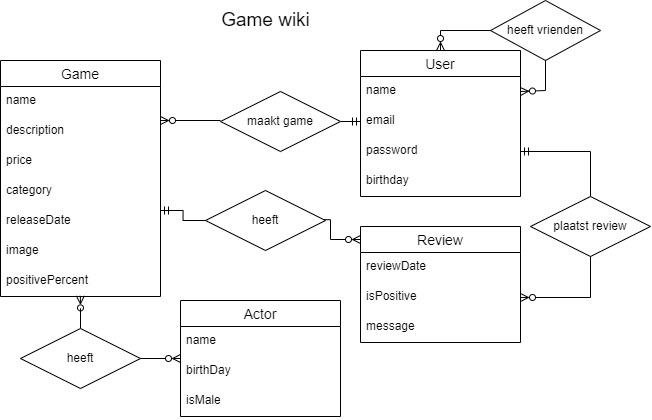
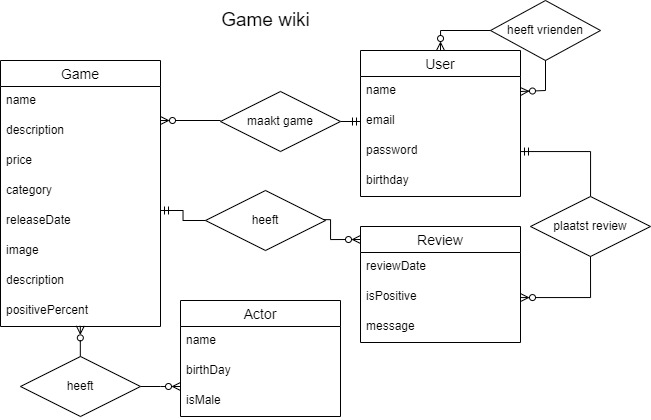
games overview UI

diff --git a/apps/game-wiki/src/app/models/mock-game.ts b/apps/game-wiki/src/app/models/mock-game.ts
@@ -7,8 +7,11 @@ export const GAMES: Game[] = [
     price: 60,
     category: 'Adventure',
     releaseDate: new Date('2022-09-11'),
-    image: 'https://upload.wikimedia.org/wikipedia/en/a/a7/God_of_War_4_cover.jpg',
+    image:
+      'https://upload.wikimedia.org/wikipedia/en/a/a7/God_of_War_4_cover.jpg',
     positivePercent: 90,
+    description:
+      "God of War is an action-adventure, hack and slash, mythology-based video game series, originally created by David Jaffe at Sony's Santa Monica Studio.",
   },
   {
     id: 2,
@@ -16,8 +19,11 @@ export const GAMES: Game[] = [
     price: 60,
     category: 'Adventure',
     releaseDate: new Date('2022-09-11'),
-    image: 'https://imageio.forbes.com/specials-images/imageserve/628d337e791f9767c05ca2e7/1--2-/960x0.jpg?height=887&width=711&fit=bounds',
+    image:
+      'https://imageio.forbes.com/specials-images/imageserve/628d337e791f9767c05ca2e7/1--2-/960x0.jpg?height=887&width=711&fit=bounds',
     positivePercent: 90,
+    description:
+      'Call of Duty: Modern Warfare II is a 2022 first-person shooter game developed by Infinity Ward and published by Activision. It is a sequel to the 2019 reboot, and serves as the nineteenth installment in the overall Call of Duty series. It was released on October 28, 2022, for PlayStation 4 and PlayStation 5, Windows, and Xbox One and Xbox Series X/S.',
   },
   {
     id: 3,
@@ -25,7 +31,93 @@ export const GAMES: Game[] = [
     price: 60,
     category: 'Adventure',
     releaseDate: new Date('2022-09-11'),
-    image: 'https://image.api.playstation.com/vulcan/ap/rnd/202107/3100/YuD3gr8HlMcHEUi4MtuHTvx5.jpg',
+    image:
+      'https://image.api.playstation.com/vulcan/ap/rnd/202107/3100/YuD3gr8HlMcHEUi4MtuHTvx5.jpg',
     positivePercent: 90,
+    description:
+      'Horizon Forbidden West is an open-world action role-playing video game developed by Guerrilla Games and published by Sony Interactive Entertainment for the PlayStation 4 and PlayStation 5. The game was released on February 18, 2022.',
+  },
+  {
+    id: 4,
+    name: 'Candy crush',
+    price: 0,
+    category: 'Boomer',
+    releaseDate: new Date('2022-09-11'),
+    image:
+      'https://media.cdnandroid.com/item_images/31781/imagen-candy-crush-saga-13ori.jpg',
+    positivePercent: 90,
+    description:
+      'Candy Crush Saga is a free-to-play tile-matching video game released by King on April 12, 2012, originally for Facebook; other versions for iOS, Android, Windows Phone, and Windows 10 followed. It is a variation of their browser game Candy Crush.',
+  },
+  {
+    id: 5,
+    name: 'Goat simulator',
+    price: 30,
+    category: 'Adventure',
+    releaseDate: new Date('2022-09-11'),
+    image:
+      'https://cdn1.epicgames.com/offer/50bbaf85f4454b1c88786efeede5b302/EGS_GoatSimulator3_CoffeeStainNorthAB_S2_1200x1600-99737fa8a749438ca909c776a4cd9b89',
+    positivePercent: 90,
+    description:
+      "That's right - we're doing this again. The baa has been raised, and Pilgor is joined by other goats too. You can invite up to three friends in local or online co-op, create carnage as a team, or compete in mini-games and then not be friends anymore. Get ready for another round of udder mayhem. Lick, headbutt, and ruin your way through a brand new open world in the biggest waste of your time since Goat Simulator!",
+  },
+  {
+    id: 6,
+    name: 'Spider-man ps4',
+    price: 60,
+    category: 'Adventure',
+    releaseDate: new Date('2022-09-11'),
+    image:
+      'https://image.api.playstation.com/vulcan/img/rnd/202011/0714/vuF88yWPSnDfmFJVTyNJpVwW.png',
+    positivePercent: 90,
+    description:
+      "Marvel's Spider-Man is a 2018 action-adventure game developed by Insomniac Games and published by Sony Interactive Entertainment.",
+  },
+  {
+    id: 7,
+    name: 'Elden ring',
+    price: 60,
+    category: 'Adventure',
+    releaseDate: new Date('2022-09-11'),
+    image:
+      'https://cdn.cdkeys.com/500x706/media/catalog/product/e/l/elden_ring_xbox_one_xbox_series_x_s_uk_1_.jpg',
+    positivePercent: 90,
+    description:
+      "Danger and discovery lurk around every corner in FromSoftware's largest game to-date. Hidetaka Miyazaki, President and Game Director of FromSoftware Inc. Known for directing critically-acclaimed games in beloved franchises including Armored Core, Dark Souls, and Sekiro: Shadows Die Twice. George R.R. Martin is the #1 New York Times bestselling author of many novels.",
+  },
+  {
+    id: 8,
+    name: 'Deathloop',
+    price: 60,
+    category: 'Adventure',
+    releaseDate: new Date('2022-09-11'),
+    image:
+      'https://www.a90skid.com/wp-content/uploads/2021/10/deathloop-cover-art.jpg',
+    positivePercent: 90,
+    description:
+      'Deathloop is a first-person shooter video game developed by Arkane Lyon and published by Bethesda Softworks.',
+  },
+  {
+    id: 9,
+    name: 'A way out',
+    price: 60,
+    category: 'Adventure',
+    releaseDate: new Date('2022-09-11'),
+    image:
+      'https://media.contentapi.ea.com/content/dam/eacom/a-way-out/common/a-way-out-origin-packart.jpg',
+    positivePercent: 90,
+    description:
+      'A Way Out is an action-adventure video game developed by Hazelight Studios and published by Electronic Arts. It is the second video game to be directed by Josef Fares after Brothers: A Tale of Two Sons.',
+  },
+  {
+    id: 10,
+    name: 'Cuphead',
+    price: 60,
+    category: 'Adventure',
+    releaseDate: new Date('2022-09-11'),
+    image: 'https://vgboxart.com/boxes/MISC/76446-cuphead.png',
+    positivePercent: 90,
+    description:
+      "Cuphead is a run-and-gun video game developed and published by Studio MDHR. The game follows the titular Cuphead who, in a deal with the Devil after losing a game at the Devil's casino, is sent on a quest to repossess the souls of runaway debtors as payment for Cuphead's loss.",
   },
 ];

diff --git a/apps/game-wiki/src/app/components/games/games.component.html b/apps/game-wiki/src/app/components/games/games.component.html
@@ -1,18 +1,28 @@
-<div class="container d-flex align-items-center justify-content-center flex-wrap">
-  <div *ngFor="let game of games">
+<img
+  src="../assets/images/wiki-banner.png"
+  class="img-fluid"
+  alt="wiki-banner"
+/>
+
+<div class="border-bottom border-2 rounded-bottom border-dark text-center bg-light">
+  <h2>Games</h2>
+</div>
+
+<div
+  class="container d-flex align-items-center justify-content-center flex-wrap"
+>
+  <div *ngFor="let game of games" routerLink="/game/{{ game.id }}">
     <div class="box">
       <div class="body">
         <div class="imgContainer">
           <img src="{{ game.image }}" alt="" />
         </div>
-        <div class="content d-flex flex-column align-items-center justify-content-center">
+        <div
+          class="content d-flex flex-column align-items-center justify-content-center"
+        >
           <div class="back-text">
             <h2 class="fs-5">{{ game.name }}</h2>
-            <p class="fs-6">
-              Lorem ipsum dolor sit amet consectetur adipisicing elit. Explicabo
-              sed cum neque, rem provident ex. Laboriosam perspiciatis modi
-              eveniet in?
-            </p>
+            <p class="fs-6">{{ game.description }}</p>
           </div>
         </div>
       </div>

diff --git a/apps/game-wiki/src/app/components/game-detail/game-detail.component.ts b/apps/game-wiki/src/app/components/game-detail/game-detail.component.ts
@@ -1,0 +1,36 @@
+/* eslint-disable @angular-eslint/no-empty-lifecycle-method */
+/* eslint-disable @typescript-eslint/no-empty-function */
+import { Component, OnInit, Input } from '@angular/core';
+import { Game } from '../../models/game';
+import { GameService } from '../../services/game.service';
+import { ActivatedRoute } from '@angular/router';
+import { Location } from '@angular/common';
+
+@Component({
+  selector: 'game-wiki-game-detail',
+  templateUrl: './game-detail.component.html',
+  styleUrls: ['./game-detail.component.css'],
+})
+export class GameDetailComponent implements OnInit {
+  game: Game | undefined;
+
+  constructor(
+    private route: ActivatedRoute,
+    private gameService: GameService,
+    private location: Location
+  ) {}
+
+  getGame(): void {
+    const id = Number(this.route.snapshot.paramMap.get('id'));
+    this.gameService.getGame(id)
+      .subscribe(game => this.game = game);
+  }
+
+  deleteGame(game: Game) {
+    this.gameService.deleteGame(game);
+  }
+
+  ngOnInit(): void {
+    this.getGame();
+  }
+}

diff --git a/apps/game-wiki/src/app/app-routing.module.ts b/apps/game-wiki/src/app/app-routing.module.ts
@@ -3,8 +3,17 @@ import { RouterModule, Routes } from '@angular/router';
 import { AboutComponent } from './components/about/about.component';
 import { UsersComponent } from './components/users/users.component';
 import { UserAddComponent } from './components/user-add/user-add.component';
+import { GamesComponent } from './components/games/games.component';
+import { GameDetailComponent } from './components/game-detail/game-detail.component';
 
-const routes: Routes = [{ path: 'users', component: UsersComponent }, { path: 'about', component: AboutComponent}, {path: 'add', component: UserAddComponent}];
+const routes: Routes = [
+  { path: '', redirectTo: '/games', pathMatch: 'full' },
+  { path: 'games', component: GamesComponent },
+  { path: 'game/:id', component: GameDetailComponent },
+  { path: 'users', component: UsersComponent },
+  { path: 'about', component: AboutComponent },
+  { path: 'add', component: UserAddComponent },
+];
 
 @NgModule({
   imports: [RouterModule.forRoot(routes)],

diff --git a/apps/game-wiki/src/app/components/game-detail/game-detail.component.spec.ts b/apps/game-wiki/src/app/components/game-detail/game-detail.component.spec.ts
@@ -1,0 +1,22 @@
+import { ComponentFixture, TestBed } from '@angular/core/testing';
+
+import { GameDetailComponent } from './game-detail.component';
+
+describe('GameDetailComponent', () => {
+  let component: GameDetailComponent;
+  let fixture: ComponentFixture<GameDetailComponent>;
+
+  beforeEach(async () => {
+    await TestBed.configureTestingModule({
+      declarations: [GameDetailComponent],
+    }).compileComponents();
+
+    fixture = TestBed.createComponent(GameDetailComponent);
+    component = fixture.componentInstance;
+    fixture.detectChanges();
+  });
+
+  it('should create', () => {
+    expect(component).toBeTruthy();
+  });
+});

diff --git a/apps/game-wiki/src/app/app.module.ts b/apps/game-wiki/src/app/app.module.ts
@@ -11,6 +11,7 @@ import { UserDetailComponent } from './components/user-detail/user-detail.compon
 import { AppRoutingModule } from './app-routing.module';
 import { UserAddComponent } from './components/user-add/user-add.component';
 import { GamesComponent } from './components/games/games.component';
+import { GameDetailComponent } from './components/game-detail/game-detail.component';
 
 @NgModule({
   declarations: [
@@ -20,6 +21,7 @@ import { GamesComponent } from './components/games/games.component';
     UserDetailComponent,
     UserAddComponent,
     GamesComponent,
+    GameDetailComponent,
   ],
   imports: [
     BrowserModule,

diff --git a/apps/game-wiki/src/app/services/game.service.ts b/apps/game-wiki/src/app/services/game.service.ts
@@ -1,3 +1,4 @@
+/* eslint-disable @typescript-eslint/no-non-null-assertion */
 /* eslint-disable @typescript-eslint/no-empty-function */
 import { Injectable } from '@angular/core';
 import { Observable, of } from 'rxjs';
@@ -20,6 +21,13 @@ export class GameService {
   addGame(game: any): void {
     game.id = GAMES.length + 1;
     GAMES.push(game);
+  }
+
+  getGame(id: number): Observable<Game> {
+    // For now, assume that a hero with the specified `id` always exists.
+    // Error handling will be added in the next step of the tutorial.
+    const game = GAMES.find(g => g.id === id)!;
+    return of(game);
   }
 
   constructor() {}

diff --git a/apps/game-wiki/src/styles.css b/apps/game-wiki/src/styles.css
@@ -1,15 +1,24 @@
 /* You can add global styles to this file, and also import other style files */
 .navbar {
-    position: relative;
+  position: relative;
 }
 
 .brand {
-    position: absolute;
-    left: 50%;
-    margin-left: -33px !important;  /* 50% of your logo width */
-    display: block;
+  position: absolute;
+  left: 50%;
+  margin-left: -33px !important; /* 50% of your logo width */
+  display: block;
 }
 
 .nav-icon {
-    width: 30px;
+  width: 30px;
+}
+
+body {
+  padding-top: 60px;
+}
+@media (max-width: 979px) {
+  body {
+    padding-top: 0px;
+  }
 }

diff --git a/apps/game-wiki/src/app/app.component.html b/apps/game-wiki/src/app/app.component.html
@@ -1,5 +1,5 @@
 <div style="text-align: center">
-  <nav class="navbar navbar-expand-lg navbar-light bg-light">
+  <nav class="navbar fixed-top navbar-expand-lg navbar-light bg-light">
     <div class="container-fluid">
       <a class="brand" routerLink="/"
         ><img src="../assets/images/wiki.png" style="width: 66px" title="Home"
@@ -60,7 +60,4 @@
     </div>
   </nav>
 </div>
-
 <router-outlet></router-outlet>
-
-<game-wiki-games></game-wiki-games>

diff --git a/apps/game-wiki/src/app/components/about/about.component.html b/apps/game-wiki/src/app/components/about/about.component.html
@@ -56,6 +56,7 @@
       <li>category: string</li>
       <li>releaseDate: date</li>
       <li>image: string</li>
+      <li>description: string</li>
       <li>positivePercent: number</li>
     </ul>
   </div>

diff --git a/apps/game-wiki/src/app/components/games/games.component.ts b/apps/game-wiki/src/app/components/games/games.component.ts
@@ -18,6 +18,7 @@ export class GamesComponent implements OnInit {
 
   onSelect(game: Game): void {
     this.selectedGame = game;
+    console.log(this.selectedGame);
   }
 
   getGames(): void {

diff --git a/apps/game-wiki/src/app/components/games/games.component.css b/apps/game-wiki/src/app/components/games/games.component.css
@@ -20,7 +20,7 @@ body {
 .container .box {
   position: relative;
   width: 275px;
-  height: 350px;
+  height: 400px;
   margin: 20px;
   transform-style: preserve-3d;
   perspective: 10000px;
